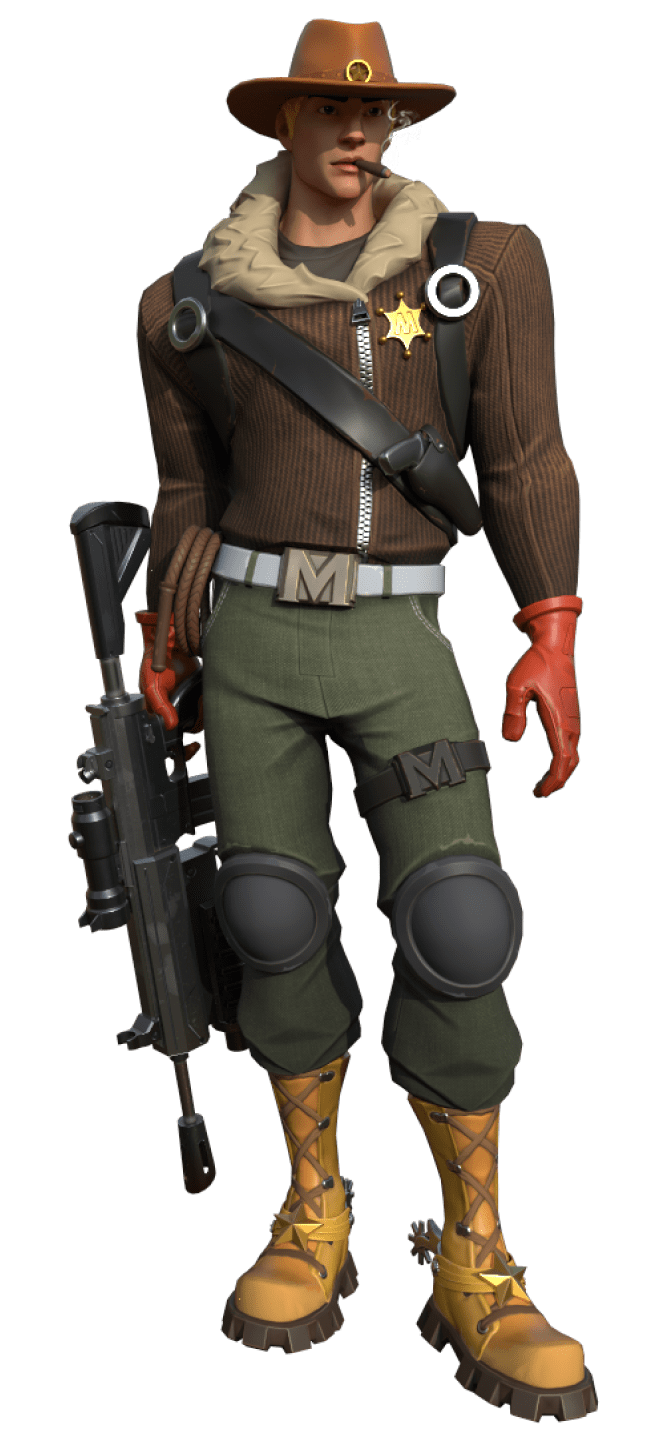
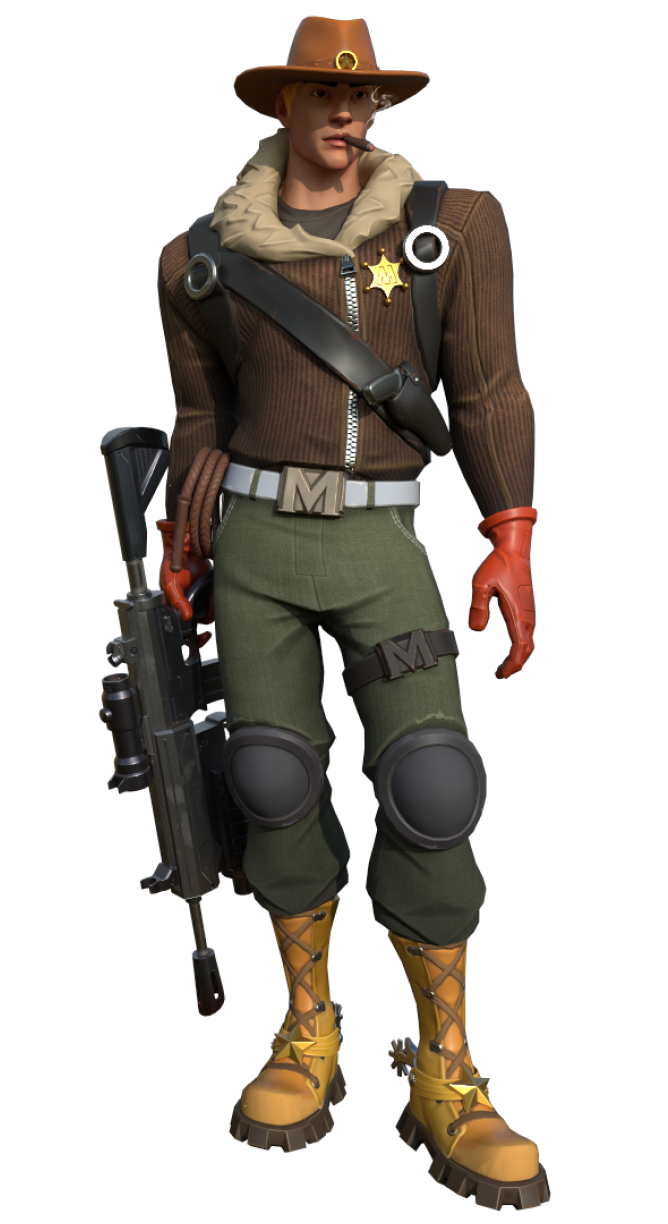
add subcribe and tweak images for interop

Changed region(s): [[0.3395, 0.0, 0.9259, 0.9935], [0.0926, 0.1552, 0.3395, 0.8382]]

diff --git a/src/components/interop/DesktopInterop.tsx b/src/components/interop/DesktopInterop.tsx
@@ -3,6 +3,7 @@ import Image from 'next/image';
 import React, { useEffect, useState, useRef } from 'react';
 import PlayCircleIcon from 'src/components/icons/PlayCircleIcon';
 import Video from 'src/components/Video';
+import Subscribe from 'src/components/Subscribe';
 import { headerHeight } from '../Header';
 import Page from '../Page';
 import { paddingX } from '../../utils';
@@ -406,8 +407,8 @@ const DesktopInterop: React.FC = () => {
               <Image
                 src="/images/interoperability/cowboy-cartoon-separate.png"
                 alt=""
-                width={454}
-                height={790}
+                width={597}
+                height={336}
               />
             </div>
             <div className="max-w-[607px] text-center mt-[27px] mb-[40px] elMorphing-text">
@@ -422,12 +423,15 @@ const DesktopInterop: React.FC = () => {
               <Image
                 src="/images/interoperability/cowboy-human-separate.png"
                 alt=""
-                width={648}
-                height={1438}
+                width={334}
+                height={612}
               />
             </div>
           </div>
         </section>
+        <div className="mb-[107px] mt-[96px]">
+        <Subscribe/>
+        </div>
       </div>
     </Page>
   );

diff --git a/src/pages/index.tsx b/src/pages/index.tsx
@@ -14,6 +14,7 @@ import AOS from 'aos';
 import { useEffect } from 'react';
 import 'aos/dist/aos.css';
 import { useAnimation, motion } from 'framer-motion';
+import Subscribe from 'src/components/Subscribe';
 
 const Index = () => {
   const imgAnimation = useAnimation();
@@ -376,9 +377,14 @@ const Index = () => {
               <ExperenceLogos />
             </div>
           </section>
-          <section className={clsx(paddingX, 'mt-[122px] md:mt-[168px] mb-[156px] md:mb-[168px]')}>
+          <section className={clsx(paddingX, 'mt-[122px] md:mt-[168px]')}>
             <div className="mx-auto max-w-content">
               <JoinTheRevolution textAnimation="fade-up" />
+            </div>
+          </section>
+          <section className={clsx(paddingX, 'mt-[64px] mb-[156px] md:mb-[168px]')}>
+            <div className="mx-auto max-w-content">
+              <Subscribe />
             </div>
           </section>
         </div>

diff --git a/src/pages/nodes.tsx b/src/pages/nodes.tsx
@@ -1,5 +1,6 @@
 import clsx from 'clsx';
 import React from 'react';
+import Subscribe from 'src/components/Subscribe';
 import CardWithIcon from '../components/CardWithIcon';
 import Collapse from '../components/Collapse';
 import { headerHeight } from '../components/Header';
@@ -192,6 +193,11 @@ const Nodes: React.FC = () => {
               </p>
               <button className="btn-lg btn-primary mt-[32px]">BUY A NODE</button>
             </div>
+          </div>
+        </section>
+        <section className={clsx(paddingX, 'mb-[124px]')}>
+          <div className="mx-auto max-w-content">
+            <Subscribe />
           </div>
         </section>
       </div>
